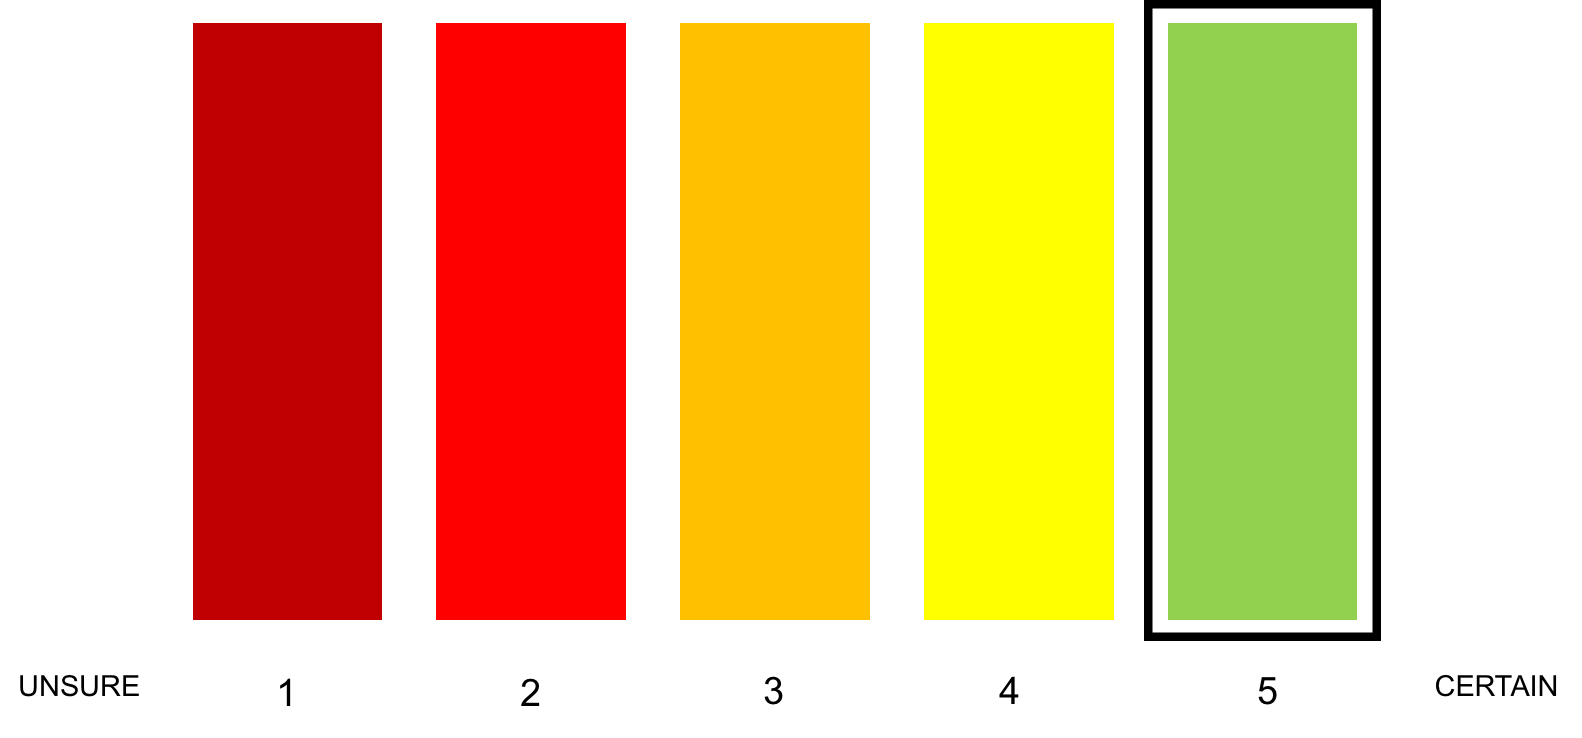
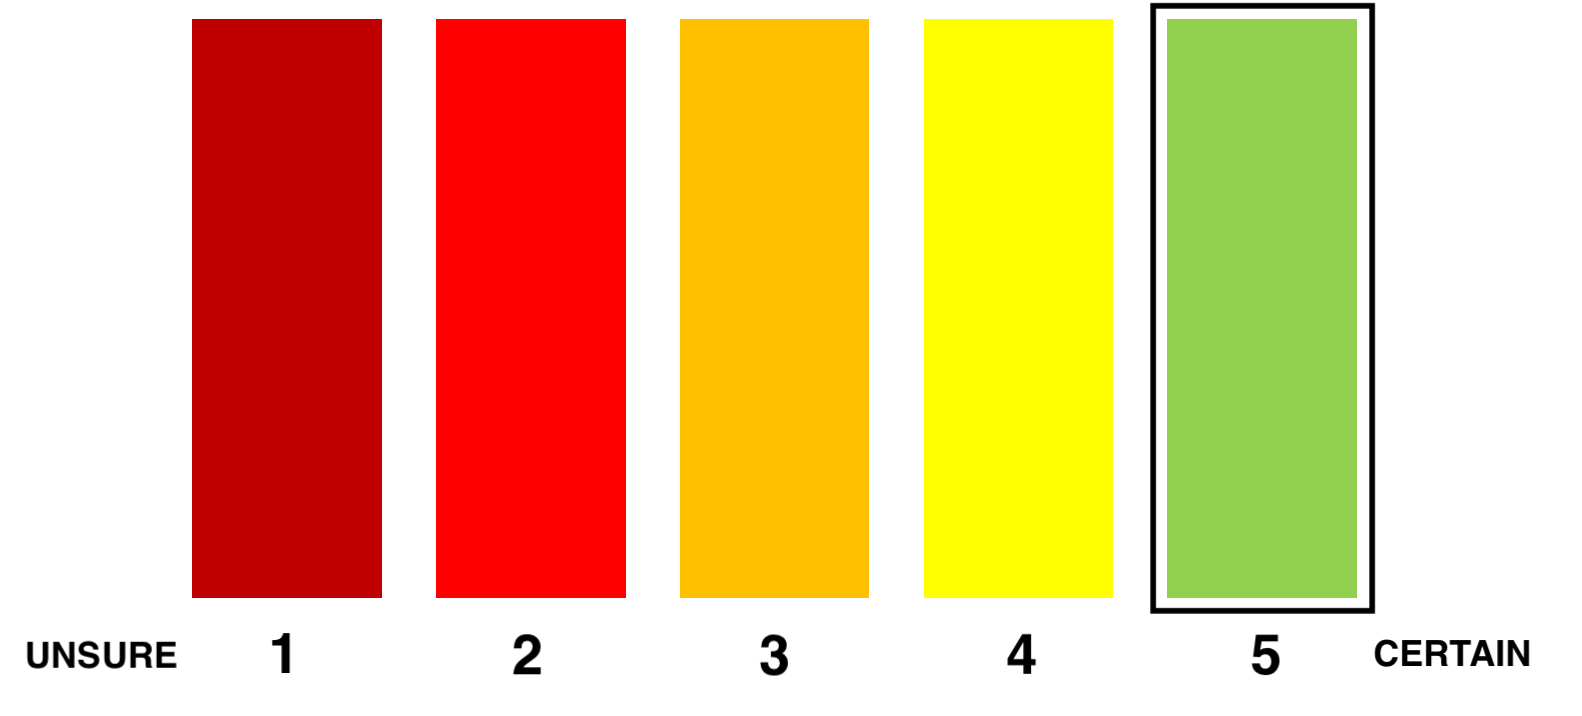
UI improvements

diff --git a/src/containers/VisualStimulus.js b/src/containers/VisualStimulus.js
@@ -1,19 +1,21 @@
 import React, {Component} from 'react';
 import PropTypes from 'prop-types';
 import {createStim, createGabor} from "../lib/Stim.js";
+import RATINGS_SRC from "../media/rating_scale.png";
+import RATINGS_1_SRC from "../media/rating_1.png";
+import RATINGS_2_SRC from "../media/rating_2.png";
+import RATINGS_3_SRC from "../media/rating_3.png";
+import RATINGS_4_SRC from "../media/rating_4.png";
+import RATINGS_5_SRC from "../media/rating_5.png";
 
 var _ = require('lodash');
 var SimplexNoise = require('simplex-noise');
 
 const IMG_SRC = "https://raw.githubusercontent.com/PowersLab1/VCH_APP_SMITH/master/src/media/fix_cross.png";
-const RATINGS_SRC = "https://raw.githubusercontent.com/PowersLab1/VCH_APP_SMITH/master/src/media/rating_scale.png";
 
 class VisualStimulus extends Component {
   constructor(props) {
     super(props);
-    this.showContrast = false;
-    this.showRatings = false;
-    this.contrast = 0;
     this.animationFrameId = undefined;
   }
 
@@ -67,19 +69,9 @@ class VisualStimulus extends Component {
       ctx.putImageData(imgdata, 0, 0);
 
       const img = new Image();
-      let rectWidth, rectHeight;
-
-      if (that.props.showRatings) {
-        img.src = RATINGS_SRC;
-        rectWidth = canvas.width;
-        rectHeight = canvas.height;
-        ctx.fillStyle = "white";
-      } else {
-        img.src = IMG_SRC;
-        rectWidth = canvas.width / 8;
-        rectHeight = canvas.height / 8;
-      }
-
+      img.src = IMG_SRC;
+      const rectWidth = canvas.width / 8;
+      const rectHeight = canvas.height / 8;
       ctx.fillStyle = "gray";
 
       var xPos = (canvas.width / 2) - (rectWidth / 2);
@@ -111,9 +103,33 @@ class VisualStimulus extends Component {
 */
 
   render() {
+
     return (
+      <div>
+        <img src={RATINGS_SRC} width="256" height="256" style={
+          {
+            zIndex: 10,
+            position: "relative",
+            width: '50%',
+            height: '50%',
+            marginTop: '12vw',
+            backgroundColor: "#F8F8F8",
+            visibility: this.props.showRatings ? 'visible' : 'hidden',
+          }
+         }
+        />
         <canvas id="c" width="256" height="256"
-          style={{ zIndex:"0", position: "fixed", left: "25%",width: '50%', height:'auto'}}></canvas>
+          style={
+            {
+              zIndex:1,
+              position: "fixed",
+              left: "25%",
+              width: '50%',
+              height:'auto',
+            }
+          }></canvas>
+
+      </div>
     );
   } // end render
 } // end class

diff --git a/src/containers/Trial.js b/src/containers/Trial.js
@@ -212,12 +212,15 @@ class Trial extends Component {
     return (
       <div className="Trial">
         {this.state.trialStarted ? (
-          <VisualStimulus
-            showContrast={this.state.showContrast}
-            showRatings={this.state.ratingWindow}
-            contrast={this.state.contrast}
-            precomputedGabor={this.precomputedGabors[this.state.index]}
-          />
+          <div>
+            <VisualStimulus
+              showContrast={this.state.showContrast}
+              showRatings={this.state.ratingWindow}
+              contrast={this.state.contrast}
+              precomputedGabor={this.precomputedGabors[this.state.index]}
+            />
+            <p className="Trial-progress">#{Math.min(this.state.index + 1, this.props.contrasts.length)}</p>
+          </div>
         ) : (
           <p className="Trial-text">
             Loading...

diff --git a/src/lib/tt_blocks.js b/src/lib/tt_blocks.js
@@ -1,3 +1,5 @@
+import {getProcessedData} from '../store';
+
 var _ = require('lodash');
 
 export function create_blocks(c25, c50, c75) {
@@ -56,6 +58,18 @@ export function create_blocks_singleton(c25, c50, c75) {
   if (_.isUndefined(create_blocks_singleton.blocks)) {
     if (arguments.length == 3) {
       create_blocks_singleton.blocks = create_blocks(c25, c50, c75);
+    } else {
+      const data = getProcessedData();
+
+      // If we have quest data from our store, use that as a fallback
+      if (!_.isUndefined(data)) {
+
+        const c25 = data.intensities.c25;
+        const c50 = data.intensities.c50;
+        const c75 = data.intensities.c75;
+
+        create_blocks_singleton.blocks = create_blocks(c25, c50, c75);
+      }
     }
   }
   return create_blocks_singleton.blocks;

diff --git a/src/containers/Trial.css b/src/containers/Trial.css
@@ -27,6 +27,15 @@
     font-size: calc(20px + 2vmin);
   }
 
+
+  .Trial-progress{
+    margin-top: calc(20vw - 30px);
+    justify-content: center;
+    margin-left: auto;
+    margin-right: auto;
+    font-size: calc(15px + 2vmin);
+  }
+
   .bigger{
     font-size: 150%;
     font-weight: bold;

diff --git a/src/containers/ThankYou.js b/src/containers/ThankYou.js
@@ -44,6 +44,7 @@ class ThankYou extends Component {
 
     // If we already sent data, nothing to do.
     if (getDataSent()) {
+      this.setState({loading: false});
       return;
     }
 
